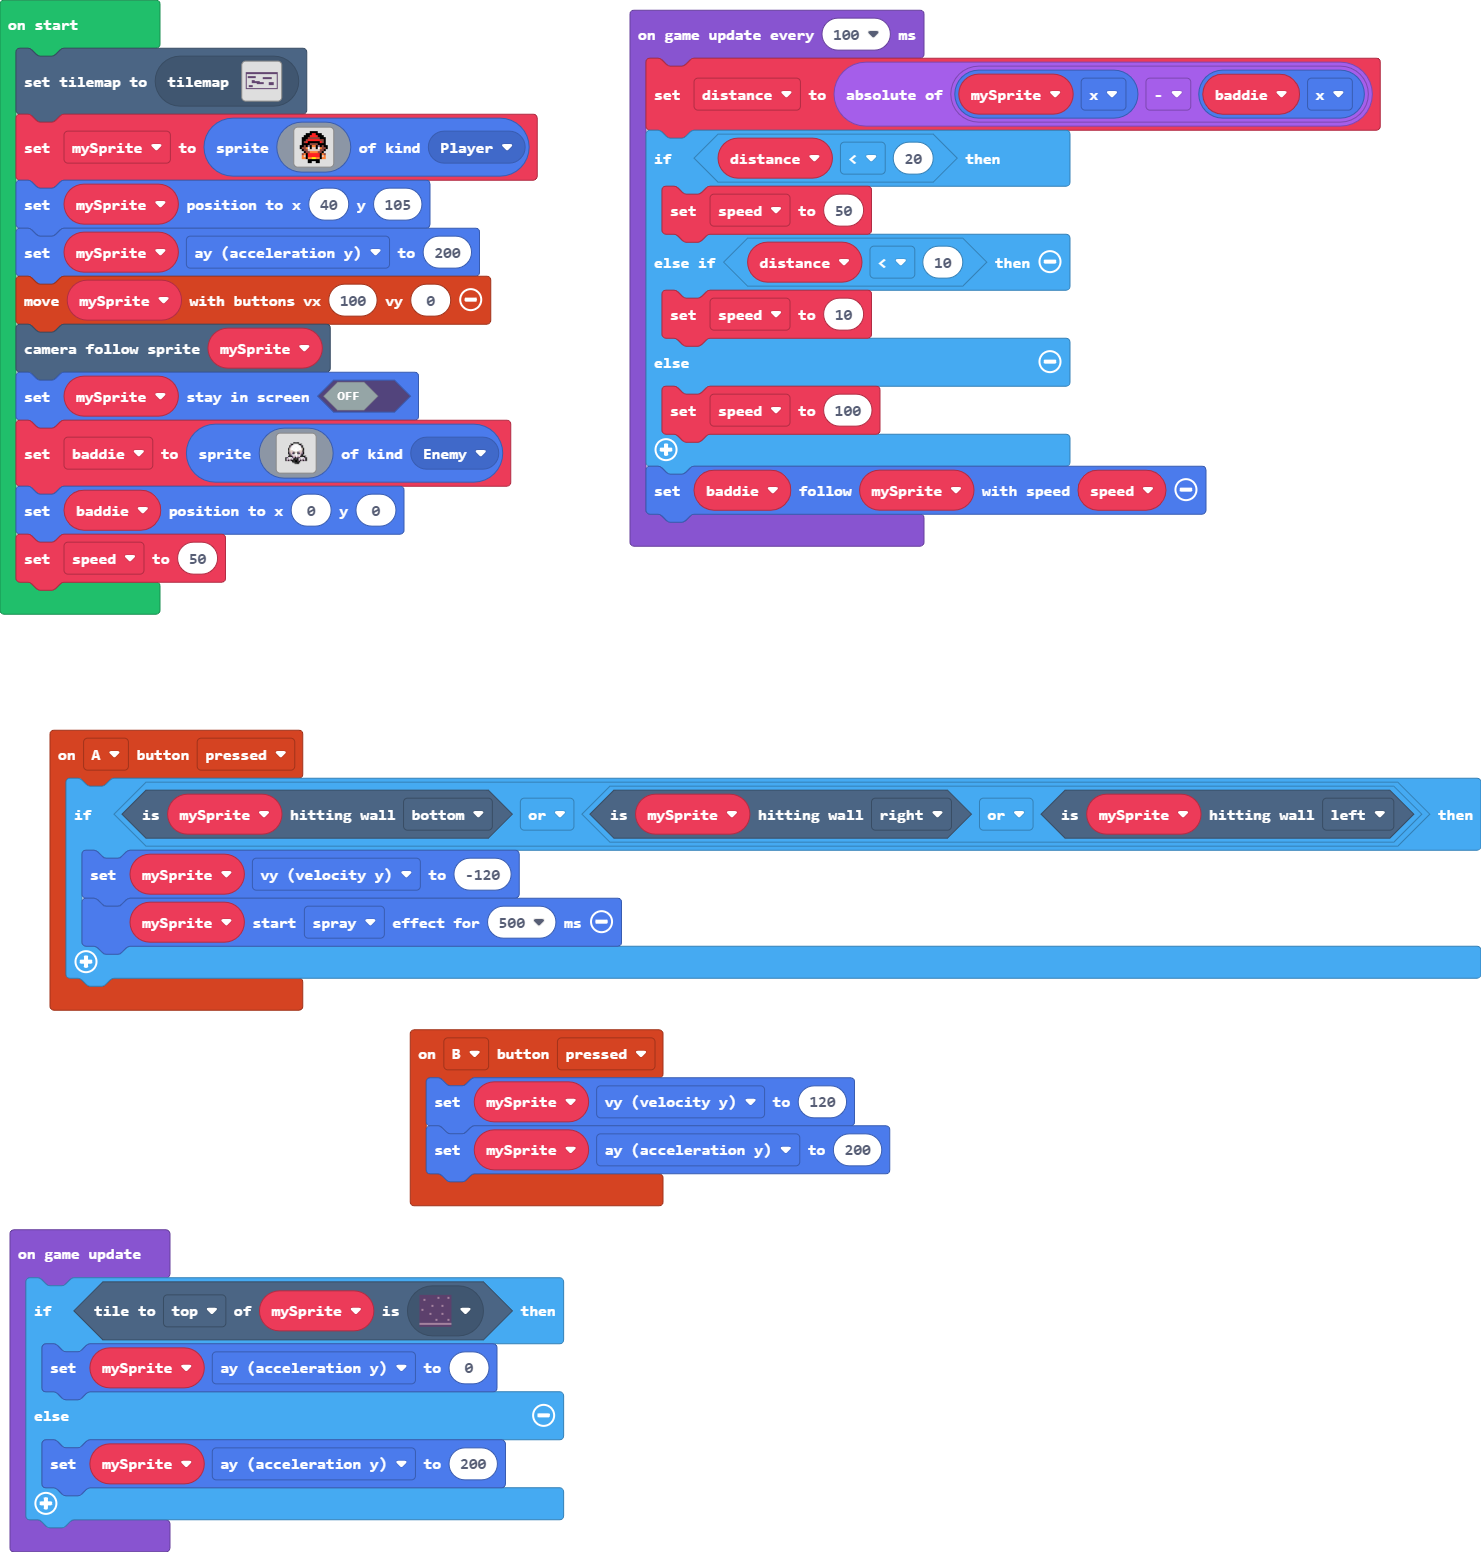
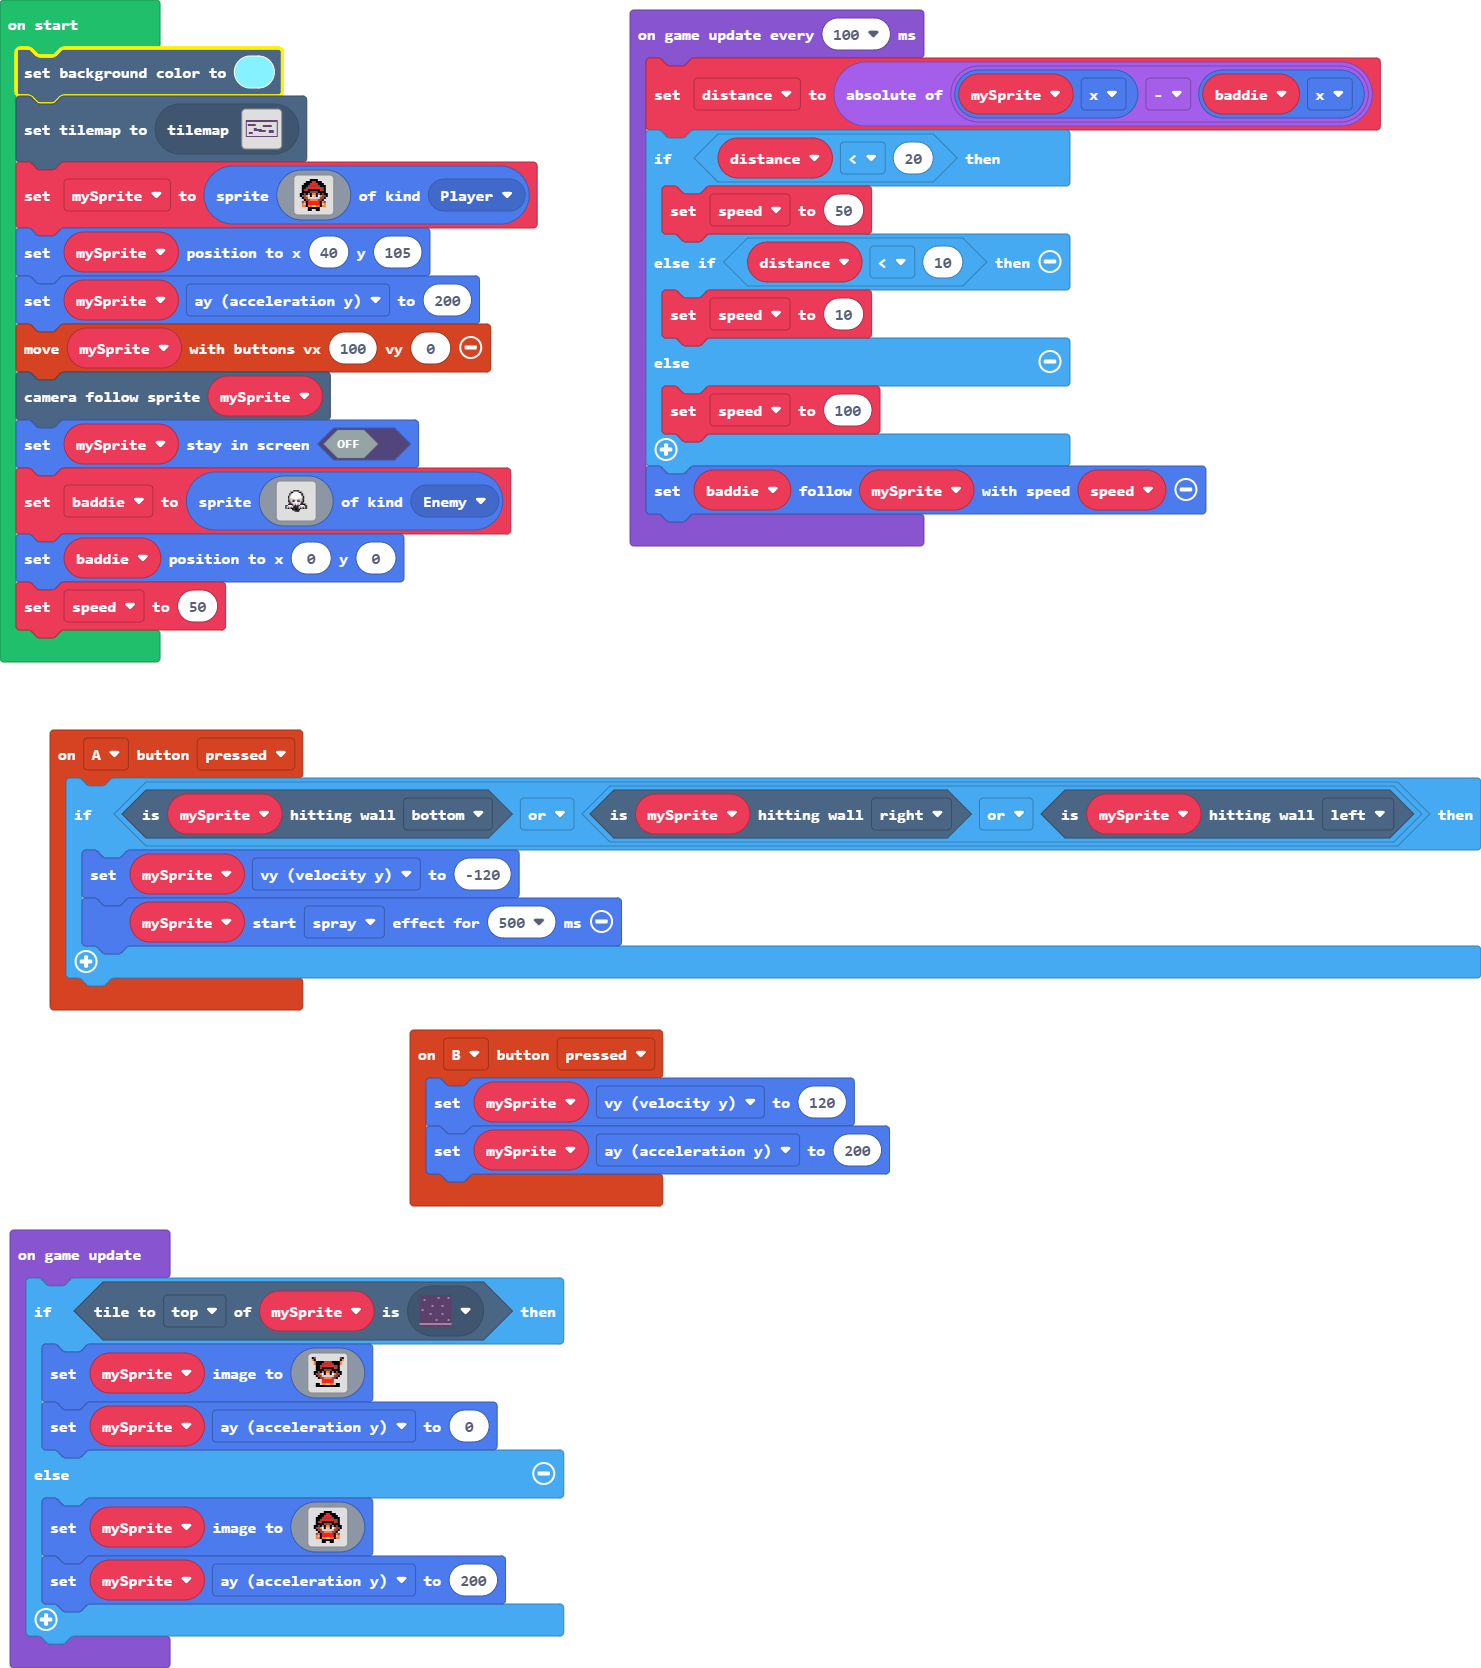
added image for holding on to ceiling

diff --git a/tilemap.g.ts b/tilemap.g.ts
@@ -6,7 +6,7 @@ namespace myTiles {
     helpers._registerFactory("tilemap", function(name: string) {
         switch(helpers.stringTrim(name)) {
             case "level1":
-            case "level1":return tiles.createTilemap(hex`20001200020707070707070707070707070707070707070707070707070707070707070306080808080808080808080808080808080808080808080808080808080808050600000000000000000000000000000000000000000000000000000000000005060000000000000000000000000000000000000000000000000000000000000506000207070707070703000000000000000000000000000000000000000000050600090808080808080400000000000000020707070707070703000000000005060000000000000000000000000000000009080808080808080400000000000506000000000000000000000000000000000000000000000000000000000000050600000000000207030000000000000000000000000000000000000000000005060000000000060101070707070300000000000000000000000000000000000506000000000009080808080101010707070300000000000207070703000000050600000000000000000000090808080808040000000000060101010500000005060000000000000000000000000000000000000000000009080808040000000506000002070703000000000000000000000000000000000000000000000000050600000908080400000000000000000000000000000000000000000000000005060000000000000000000000000000000000000000000000000000000000000509080808080808080808080808080808080808080808080808080808080808040000000000000000000000000000000000000000000000000000000000000000`, img`
+            case "level1":return tiles.createTilemap(hex`20001200020707070707070707070707070707070707070707070707070707070707070306080808080808080808080808080808080808080808080808080808080808050600000000000000000000000000000000000000000000000000000000000005060000000000000000000000000000000000000000000000000000000000000506000207070707070703000000000000000000000000000000000000000000050600090808080808080400000000000000020707070707070703000000000005060000000000000000000000000000000009080808080808080400000000000506000000000000000000000000000000000000000000000000000000000000050600000000000000020703000000000000000000000000000000000000000005060000000000000006010107070707030000000000000000000000000000000506000000000000000908080808010101070707030000000207070703000000050600000000000000000000000009080808080804000000060101010500000005060000020707030000000000000000000000000000000009080808040000000506000009080804000000000000000000000000000000000000000000000000050600000000000000000000000000000000000000000000000000000000000005060000000000000000000000000000000000000000000000000000000000000509080808080808080808080808080808080808080808080808080808080808040000000000000000000000000000000000000000000000000000000000000000`, img`
 ................................
 22222222222222222222222222222222
 2..............................2
@@ -15,13 +15,13 @@ namespace myTiles {
 2.22222222.......222222222.....2
 2................222222222.....2
 2..............................2
-2.....222......................2
-2.....22222222.................2
-2.....222222222222.....22222...2
-2..........2222222.....22222...2
-2......................22222...2
+2.......222....................2
+2.......22222222...............2
+2.......222222222222...22222...2
+2............2222222...22222...2
+2..2222................22222...2
 2..2222........................2
-2..2222........................2
+2..............................2
 2..............................2
 22222222222222222222222222222222
 ................................

diff --git a/images.g.ts b/images.g.ts
@@ -1,0 +1,90 @@
+// Auto-generated code. Do not edit.
+namespace myImages {
+
+    helpers._registerFactory("image", function(name: string) {
+        switch(helpers.stringTrim(name)) {
+            case "AAo=Gd}|,7E*":
+            case "player":return img`
+. . . . . . f f f f . . . . . . 
+. . . . f f f 2 2 f f f . . . . 
+. . . f f f 2 2 2 2 f f f . . . 
+. . f f f e e e e e e f f f . . 
+. . f f e 2 2 2 2 2 2 e e f . . 
+. . f e 2 f f f f f f 2 e f . . 
+. . f f f f e e e e f f f f . . 
+. f f e f b f 4 4 f b f e f f . 
+. f e e 4 1 f d d f 1 4 e e f . 
+. . f e e d d d d d d e e f . . 
+. . . f e e 4 4 4 4 e e f . . . 
+. . e 4 f 2 2 2 2 2 2 f 4 e . . 
+. . 4 d f 2 2 2 2 2 2 f d 4 . . 
+. . 4 4 f 4 4 5 5 4 4 f 4 4 . . 
+. . . . . f f f f f f . . . . . 
+. . . . . f f . . f f . . . . . 
+`;
+            case "1pay$EgaHOWWurz}ZNrf":
+            case "baddie":return img`
+........................
+........................
+........................
+........................
+..........ffff..........
+........ff1111ff........
+.......fb111111bf.......
+.......f11111111f.......
+......fd11111111df......
+......fd11111111df......
+......fddd1111dddf......
+......fbdbfddfbdbf......
+......fcdcf11fcdcf......
+.......fb111111bf.......
+......fffcdb1bdffff.....
+....fc111cbfbfc111cf....
+....f1b1b1ffff1b1b1f....
+....fbfbffffffbfbfbf....
+.........ffffff.........
+...........fff..........
+........................
+........................
+........................
+........................
+`;
+            case "image1":
+            case "holding on":return img`
+f e . . . . . . . . . . . . e f 
+4 f . . . . . . . . . . . . f 4 
+. 4 f f f f 2 2 2 2 f f f f 4 . 
+. 4 f f f e e e e e e f f f 4 . 
+. . f f e 2 2 2 2 2 2 e e f . . 
+. . f f 2 f f f f f f 2 e f . . 
+. . f f f f e e e e f f f f . . 
+. f f e f b f 4 4 f b f e f f . 
+. f e e 4 1 f d d f 1 4 e e f . 
+. . f e e d d d d d d e e f . . 
+. . . f e e 4 4 4 4 e e f . . . 
+. . . . . 2 2 2 2 2 2 . . . . . 
+. . . . . 2 2 2 2 2 2 . . . . . 
+. . f f . 4 4 5 5 4 4 . f f . . 
+. . f f f f f f f f f f f f . . 
+. . . . . . . . . . . . . . . . 
+`;
+        }
+        return null;
+    })
+
+    helpers._registerFactory("animation", function(name: string) {
+        switch(helpers.stringTrim(name)) {
+
+        }
+        return null;
+    })
+
+    helpers._registerFactory("song", function(name: string) {
+        switch(helpers.stringTrim(name)) {
+
+        }
+        return null;
+    })
+
+}
+// Auto-generated code. Do not edit.

diff --git a/main.ts b/main.ts
@@ -10,62 +10,23 @@ controller.A.onEvent(ControllerButtonEvent.Pressed, function () {
 })
 let distance = 0
 let mySprite: Sprite = null
+scene.setBackgroundColor(9)
 tiles.setCurrentTilemap(tilemap`level1`)
-mySprite = sprites.create(img`
-    . . . . . . f f f f . . . . . . 
-    . . . . f f f 2 2 f f f . . . . 
-    . . . f f f 2 2 2 2 f f f . . . 
-    . . f f f e e e e e e f f f . . 
-    . . f f e 2 2 2 2 2 2 e e f . . 
-    . . f e 2 f f f f f f 2 e f . . 
-    . . f f f f e e e e f f f f . . 
-    . f f e f b f 4 4 f b f e f f . 
-    . f e e 4 1 f d d f 1 4 e e f . 
-    . . f e e d d d d d d e e f . . 
-    . . . f e e 4 4 4 4 e e f . . . 
-    . . e 4 f 2 2 2 2 2 2 f 4 e . . 
-    . . 4 d f 2 2 2 2 2 2 f d 4 . . 
-    . . 4 4 f 4 4 5 5 4 4 f 4 4 . . 
-    . . . . . f f f f f f . . . . . 
-    . . . . . f f . . f f . . . . . 
-    `, SpriteKind.Player)
+mySprite = sprites.create(assets.image`player`, SpriteKind.Player)
 mySprite.setPosition(40, 105)
 mySprite.ay = 200
 controller.moveSprite(mySprite, 100, 0)
 scene.cameraFollowSprite(mySprite)
 mySprite.setStayInScreen(false)
-let baddie = sprites.create(img`
-    ........................
-    ........................
-    ........................
-    ........................
-    ..........ffff..........
-    ........ff1111ff........
-    .......fb111111bf.......
-    .......f11111111f.......
-    ......fd11111111df......
-    ......fd11111111df......
-    ......fddd1111dddf......
-    ......fbdbfddfbdbf......
-    ......fcdcf11fcdcf......
-    .......fb111111bf.......
-    ......fffcdb1bdffff.....
-    ....fc111cbfbfc111cf....
-    ....f1b1b1ffff1b1b1f....
-    ....fbfbffffffbfbfbf....
-    .........ffffff.........
-    ...........fff..........
-    ........................
-    ........................
-    ........................
-    ........................
-    `, SpriteKind.Enemy)
+let baddie = sprites.create(assets.image`baddie`, SpriteKind.Enemy)
 baddie.setPosition(0, 0)
 let speed = 50
 game.onUpdate(function () {
     if (mySprite.tileKindAt(TileDirection.Top, sprites.dungeon.darkGroundSouth)) {
+        mySprite.setImage(assets.image`holding on`)
         mySprite.ay = 0
     } else {
+        mySprite.setImage(assets.image`player`)
         mySprite.ay = 200
     }
 })
